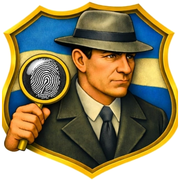
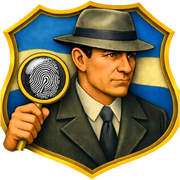
Cambios pedidos por el profesor: aviso de educacion no formal, rol Profesor Disertante, diploma y certificado con horas catedra. Escudo recortado de nuevo sin el borde blanco.

diff --git a/index.html b/index.html
@@ -4,7 +4,7 @@
   <meta charset="utf-8">
   <meta name="viewport" content="width=device-width, initial-scale=1">
   <title>Curso de Investigación Forense en Quilmes | Centro de Formación en Investigación Forense</title>
-  <meta name="description" content="Curso presencial de investigación forense en Quilmes, teórico y práctico, dictado por el Lic. Ramón Antonio Sotelo. Lunes, miércoles y jueves de 14 a 16 hs. Se entrega certificado. Inscripción abierta.">
+  <meta name="description" content="Curso presencial de investigación forense en Quilmes, teórico y práctico, dictado por el Lic. Ramón Antonio Sotelo. Lunes, miércoles y jueves de 14 a 16 hs. Se entrega diploma y certificado. Inscripción abierta.">
   <link rel="canonical" href="https://www.centrodeinvestigacionforense.com.ar/">
   <meta name="theme-color" content="#0e2140">
   <meta name="google-site-verification" content="GDiDLgp89SGIDQvg_NasnQKhm9BxFopUjwSt4n7rdfU">
@@ -13,7 +13,7 @@
   <meta property="og:locale" content="es_AR">
   <meta property="og:site_name" content="Centro de Formación en Investigación Forense">
   <meta property="og:title" content="Curso de Investigación Forense en Quilmes — Inscripción abierta">
-  <meta property="og:description" content="Formación teórica y práctica para quienes quieran desarrollarse en el ámbito forense. Dicta el Lic. Ramón Antonio Sotelo. Se entrega certificado.">
+  <meta property="og:description" content="Formación teórica y práctica para quienes quieran desarrollarse en el ámbito forense. Dicta el Lic. Ramón Antonio Sotelo. Se entrega diploma y certificado.">
   <meta property="og:url" content="https://www.centrodeinvestigacionforense.com.ar/">
   <meta property="og:image" content="https://www.centrodeinvestigacionforense.com.ar/img/og.jpg">
   <meta property="og:image:width" content="1200">
@@ -56,16 +56,16 @@
         "@id": "https://www.centrodeinvestigacionforense.com.ar/#profesor",
         "name": "Ramón Antonio Sotelo",
         "honorificPrefix": "Lic.",
-        "jobTitle": "Director del Centro de Formación en Investigación Forense",
+        "jobTitle": "Profesor Disertante",
         "image": "https://www.centrodeinvestigacionforense.com.ar/img/profesor.jpg",
         "knowsAbout": ["Dibujo forense", "Cotejo de rostros humanos", "Investigación criminal", "Criminalística", "Preservación del lugar del hecho", "Cadena de custodia"]
       },
       {
         "@type": "Course",
         "name": "Curso de Investigación Forense",
-        "description": "Formación teórica y práctica para quienes quieran desarrollarse en el ámbito forense. Se entrega certificado de participación.",
+        "description": "Formación teórica y práctica para quienes quieran desarrollarse en el ámbito forense. Se entrega diploma y certificado con horas cátedra.",
         "inLanguage": "es",
-        "educationalCredentialAwarded": "Certificado de participación",
+        "educationalCredentialAwarded": "Diploma y Certificado con horas cátedra",
         "coursePrerequisites": "Mayores de 18 años con secundario completo",
         "provider": { "@id": "https://www.centrodeinvestigacionforense.com.ar/#org" },
         "hasCourseInstance": {
@@ -90,8 +90,8 @@
         "@type": "FAQPage",
         "mainEntity": [
           { "@type": "Question", "name": "¿Qué requisitos hay para inscribirse?", "acceptedAnswer": { "@type": "Answer", "text": "Ser mayor de 18 años y tener el secundario completo. No hace falta experiencia previa." } },
-          { "@type": "Question", "name": "¿El curso entrega certificado?", "acceptedAnswer": { "@type": "Answer", "text": "Sí. Al finalizar se entrega un certificado de participación." } },
-          { "@type": "Question", "name": "¿El curso garantiza un trabajo?", "acceptedAnswer": { "@type": "Answer", "text": "No. Es una formación que brinda conocimientos y aptitudes para desarrollarse en el ámbito forense y ampliar las posibilidades laborales, pero no garantiza un puesto de trabajo ni el ingreso a ninguna institución." } },
+          { "@type": "Question", "name": "¿El curso entrega diploma o certificado?", "acceptedAnswer": { "@type": "Answer", "text": "Sí. Se entrega el Diploma y Certificado con cantidad de horas cátedra expresadas en el mismo." } },
+          { "@type": "Question", "name": "¿El curso garantiza un trabajo?", "acceptedAnswer": { "@type": "Answer", "text": "No. Es una formación de educación no formal: la aprobación del curso no constituye una promesa, garantía ni obligación de inserción o salida laboral para el alumno." } },
           { "@type": "Question", "name": "¿Dónde y cuándo se cursa?", "acceptedAnswer": { "@type": "Answer", "text": "En el Círculo de Suboficiales de la Policía de la Provincia de Buenos Aires, Av. Calchaquí 1542, Quilmes. Lunes, miércoles y jueves de 14:00 a 16:00 hs, de forma presencial." } },
           { "@type": "Question", "name": "¿Cómo me inscribo?", "acceptedAnswer": { "@type": "Answer", "text": "Escribiendo por WhatsApp o llamando al +54 9 11 5597-7206." } }
         ]
@@ -146,11 +146,11 @@
           <ul class="hero-facts">
             <li>Presencial</li>
             <li>Teórico y práctico</li>
-            <li>Con certificado</li>
+            <li>Con diploma y certificado</li>
           </ul>
         </div>
         <div class="hero-logo">
-          <img src="img/escudo.png" alt="Escudo del Centro de Formación en Investigación Forense" width="445" height="455">
+          <img src="img/escudo.png" alt="Escudo del Centro de Formación en Investigación Forense" width="445" height="447">
         </div>
       </div>
     </section>
@@ -191,8 +191,8 @@
           </article>
           <article class="info-card info-card-accent">
             <span class="icon" aria-hidden="true"><svg viewBox="0 0 24 24"><circle cx="12" cy="9" r="5"/><path d="m9 13.5-1.5 7L12 18l4.5 2.5-1.5-7"/></svg></span>
-            <h3>Certificado</h3>
-            <p>Al finalizar se entrega certificado de participación.</p>
+            <h3>Diploma y certificado</h3>
+            <p>Se entrega el Diploma y Certificado con cantidad de horas cátedra expresadas en el mismo.</p>
           </article>
         </div>
 
@@ -220,8 +220,8 @@
             <svg viewBox="0 0 24 24"><circle cx="12" cy="12" r="9"/><path d="M12 8v5M12 16.5v.01"/></svg>
           </div>
           <div>
-            <h3>Importante: certificado sí, garantía laboral no</h3>
-            <p>El curso otorga un <strong>certificado de participación</strong>, pero <strong>no garantiza un puesto de trabajo</strong> ni el ingreso a ninguna fuerza o institución. Es una formación que te brinda conocimientos y aptitudes para que, después, tengas <strong>más posibilidades</strong> de desarrollarte en el ámbito forense.</p>
+            <h3>IMPORTANTE: Formación de educación no formal</h3>
+            <p>La aprobación de este curso no constituye una promesa, garantía ni obligación de inserción o salida laboral para el alumno.</p>
           </div>
         </aside>
       </div>
@@ -238,7 +238,7 @@
         <div class="profesor-text">
           <p class="kicker">El profesor</p>
           <h2>Lic. Ramón Antonio Sotelo</h2>
-          <p class="profesor-role">MsC (c) · Director del Centro de Formación en Investigación Forense</p>
+          <p class="profesor-role">MsC (c) · Profesor Disertante</p>
           <p>Especialista en <strong>dibujo forense</strong> y <strong>cotejo de rostros humanos</strong>, con destacada experiencia en investigación criminal. Dirige el Centro de Formación en Investigación Forense, con sede en el Círculo de Suboficiales de la Policía de la Provincia de Buenos Aires.</p>
           <p>Su trabajo pone el foco en la importancia del primer respondiente y en la correcta recolección de las evidencias iniciales. A través de su formación y práctica contribuye a fortalecer la capacidad de las fuerzas de seguridad para resolver casos mediante técnicas visuales y científicas.</p>
           <ul class="profesor-facts">
@@ -296,12 +296,12 @@
             <p>No. Solo hace falta ser mayor de 18 años y tener el secundario completo.</p>
           </details>
           <details>
-            <summary>¿El curso entrega certificado?</summary>
-            <p>Sí. Al finalizar se entrega un certificado de participación.</p>
+            <summary>¿El curso entrega diploma o certificado?</summary>
+            <p>Sí. Se entrega el Diploma y Certificado con cantidad de horas cátedra expresadas en el mismo.</p>
           </details>
           <details>
             <summary>¿El curso garantiza un trabajo?</summary>
-            <p>No. Es una formación que te da conocimientos y aptitudes para desarrollarte en el ámbito forense y ampliar tus posibilidades laborales, pero no garantiza un puesto de trabajo ni el ingreso a ninguna fuerza o institución.</p>
+            <p>No. Es una formación de educación no formal: la aprobación del curso no constituye una promesa, garantía ni obligación de inserción o salida laboral para el alumno.</p>
           </details>
           <details>
             <summary>¿Dónde y cuándo se cursa?</summary>
